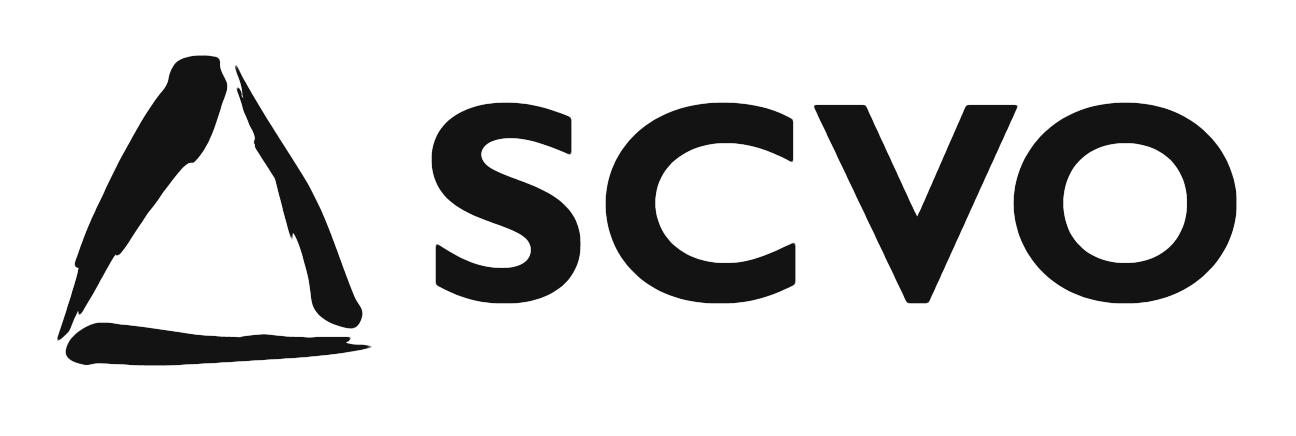
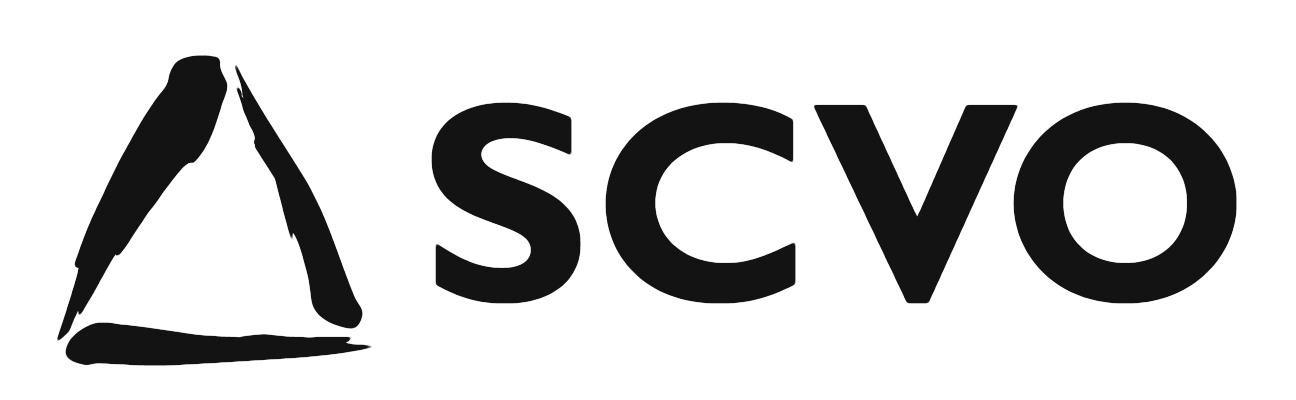
Image style edits

diff --git a/css/main.scss b/css/main.scss
@@ -95,10 +95,6 @@ a:hover fa {
 
 // Spacing
 
-img {
-  max-width: 100%;
-}
-
 h3, h4, h5, h6 {
   margin-top: $spacing-unit;
 }
@@ -113,11 +109,7 @@ h3, h4, h5, h6 {
   margin-bottom: $spacing-unit;
 }
 
-.project-index {
-  margin-bottom: $spacing-unit;
-}
-
-img.project {
+.p-index {
   margin-bottom: $spacing-unit;
 }
 
@@ -126,6 +118,36 @@ img.project {
 }
 
 
+
+// Images
+
+img {
+  max-width: 100%;
+}
+
+img.project {
+  margin-bottom: $spacing-unit;
+}
+
+img.charter {
+  width: 156px;
+  height: auto;
+  vertical-align: middle;
+  margin: $spacing-unit;
+}
+
+img.thumb {
+  width: $spacing-unit * 4;
+}
+
+img.avatar {
+  width: 128px;
+  height: 128px;
+}
+
+img.logo {
+  height: $spacing-unit * 1.5;
+}
 
 
 // Other
@@ -191,28 +213,10 @@ img.project {
   
 }
 
-img.charter-logo {
-  width: 156px;
-  height: auto;
-  vertical-align: middle;
-  margin: $spacing-unit;
-}
-
-img.avatar {
-  width: 128px;
-  height: 128px;
-}
-
 .footer {
   margin-top: $spacing-unit;
   padding-top: $spacing-unit;
   padding-bottom: $spacing-unit / 2;
   border-top: 1px solid #EEEEEE;
   background-color: #FBFBFB;
-  
-  img {
-    height: $spacing-unit * 1.5;
-    padding-left: $spacing-unit /2;
-  }
-    
 }

diff --git a/_layouts/charter.html b/_layouts/charter.html
@@ -41,9 +41,9 @@ layout: default
 
         {% for item in site.data.charter %}
           {% if item.url %}
-            <a href="{{ item.url }}"><img src="/images/charter/{{ item.image }}" alt="{{ item.name }}" class="charter-logo" /></a>
+            <a href="{{ item.url }}"><img src="/images/charter/{{ item.image }}" alt="{{ item.name }}" class="charter" /></a>
           {% else %}
-            <img src="/images/charter/{{ item.image }}" alt="{{ item.name }}" class="charter-logo" />
+            <img src="/images/charter/{{ item.image }}" alt="{{ item.name }}" class="charter" />
           {% endif %}
         {% endfor %}
 

diff --git a/_includes/footer.html b/_includes/footer.html
@@ -25,8 +25,8 @@
   
       <div class="col-md-5">
         <p class="text-right">
-        <a href="http://www.scvo.org.uk/"><img src="/images/scvo.png" alt="SCVO" /></a>
-        <a href="http://www.digitalscotland.org."><img src="/images/digitalscotland.png" alt="Digital Scotland" /></a>
+        <a href="http://www.scvo.org.uk/"><img src="/images/scvo.png" alt="SCVO" class="logo" /></a>
+        <a href="http://www.digitalscotland.org."><img src="/images/digitalscotland.png" alt="Digital Scotland" class="logo" /></a>
         </p>
       </div>
   

diff --git a/_layouts/challenge.html b/_layouts/challenge.html
@@ -59,7 +59,7 @@ layout: default
         {% for page in site.pages %}
           {% if page.layout == 'project' %}
           
-            <p class="project-index"><strong><a href="{{ page.url }}">{{ page.title }}</a></strong><br />
+            <p class="p-index"><strong><a href="{{ page.url }}">{{ page.title }}</a></strong><br />
             <small>{{ page.excerpt }}</small></p>
             
             {% capture idx %}{{ idx | plus: 1}}{% endcapture %}

diff --git a/pages/directory.md b/pages/directory.md
@@ -29,6 +29,8 @@ If your organisation helps people to learn then we would love to add you to the 
 
 ### Learn My Way
 
+<img src="/images/learnmyway.jpg" class="thumb" />
+
 We've partnered with [Tinder Foundation](http://www.tinderfoundation.org) to develop extra learning resources for people and organisations in Scotland. [Learn My Way](http://scotland.learnmyway.com) is a free online resource designed to help people learn basic online skills. If your organisation helps people to learn then you can apply for a free centre code, for your learners to use when they register on the Learn My Way website. This will help you to keep count of all your learners and see how they are getting on.
 
 <a href="http://letsgeton.digitalscotland.org/SignUp/create" class="btn btn-primary btn-lg">Apply for a Learn My Way code</a>
